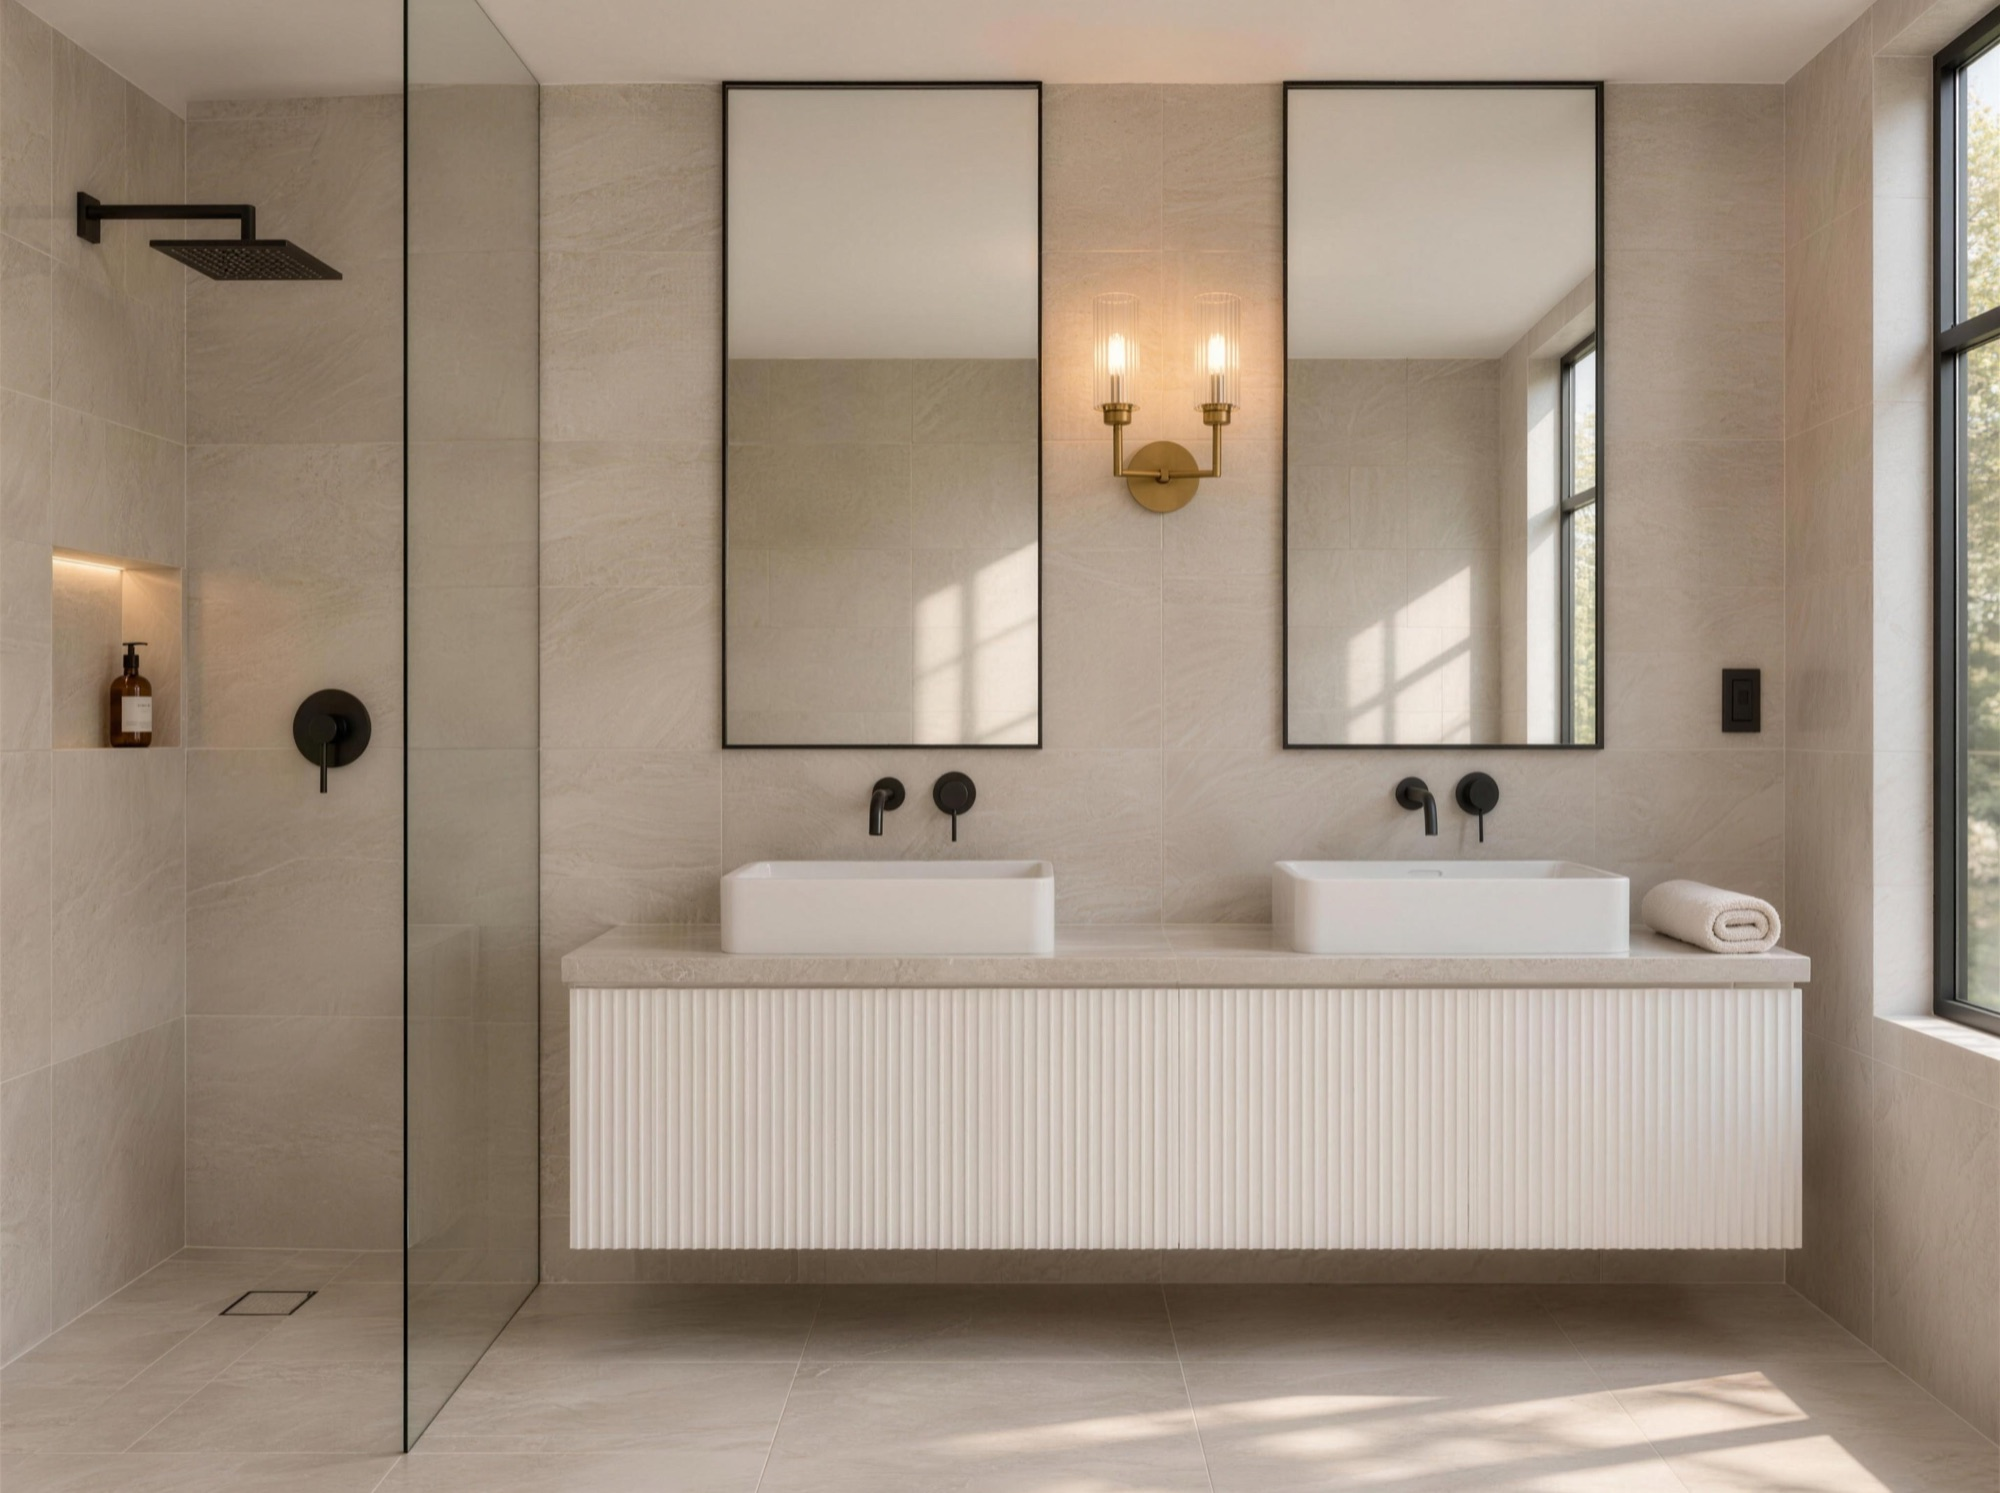
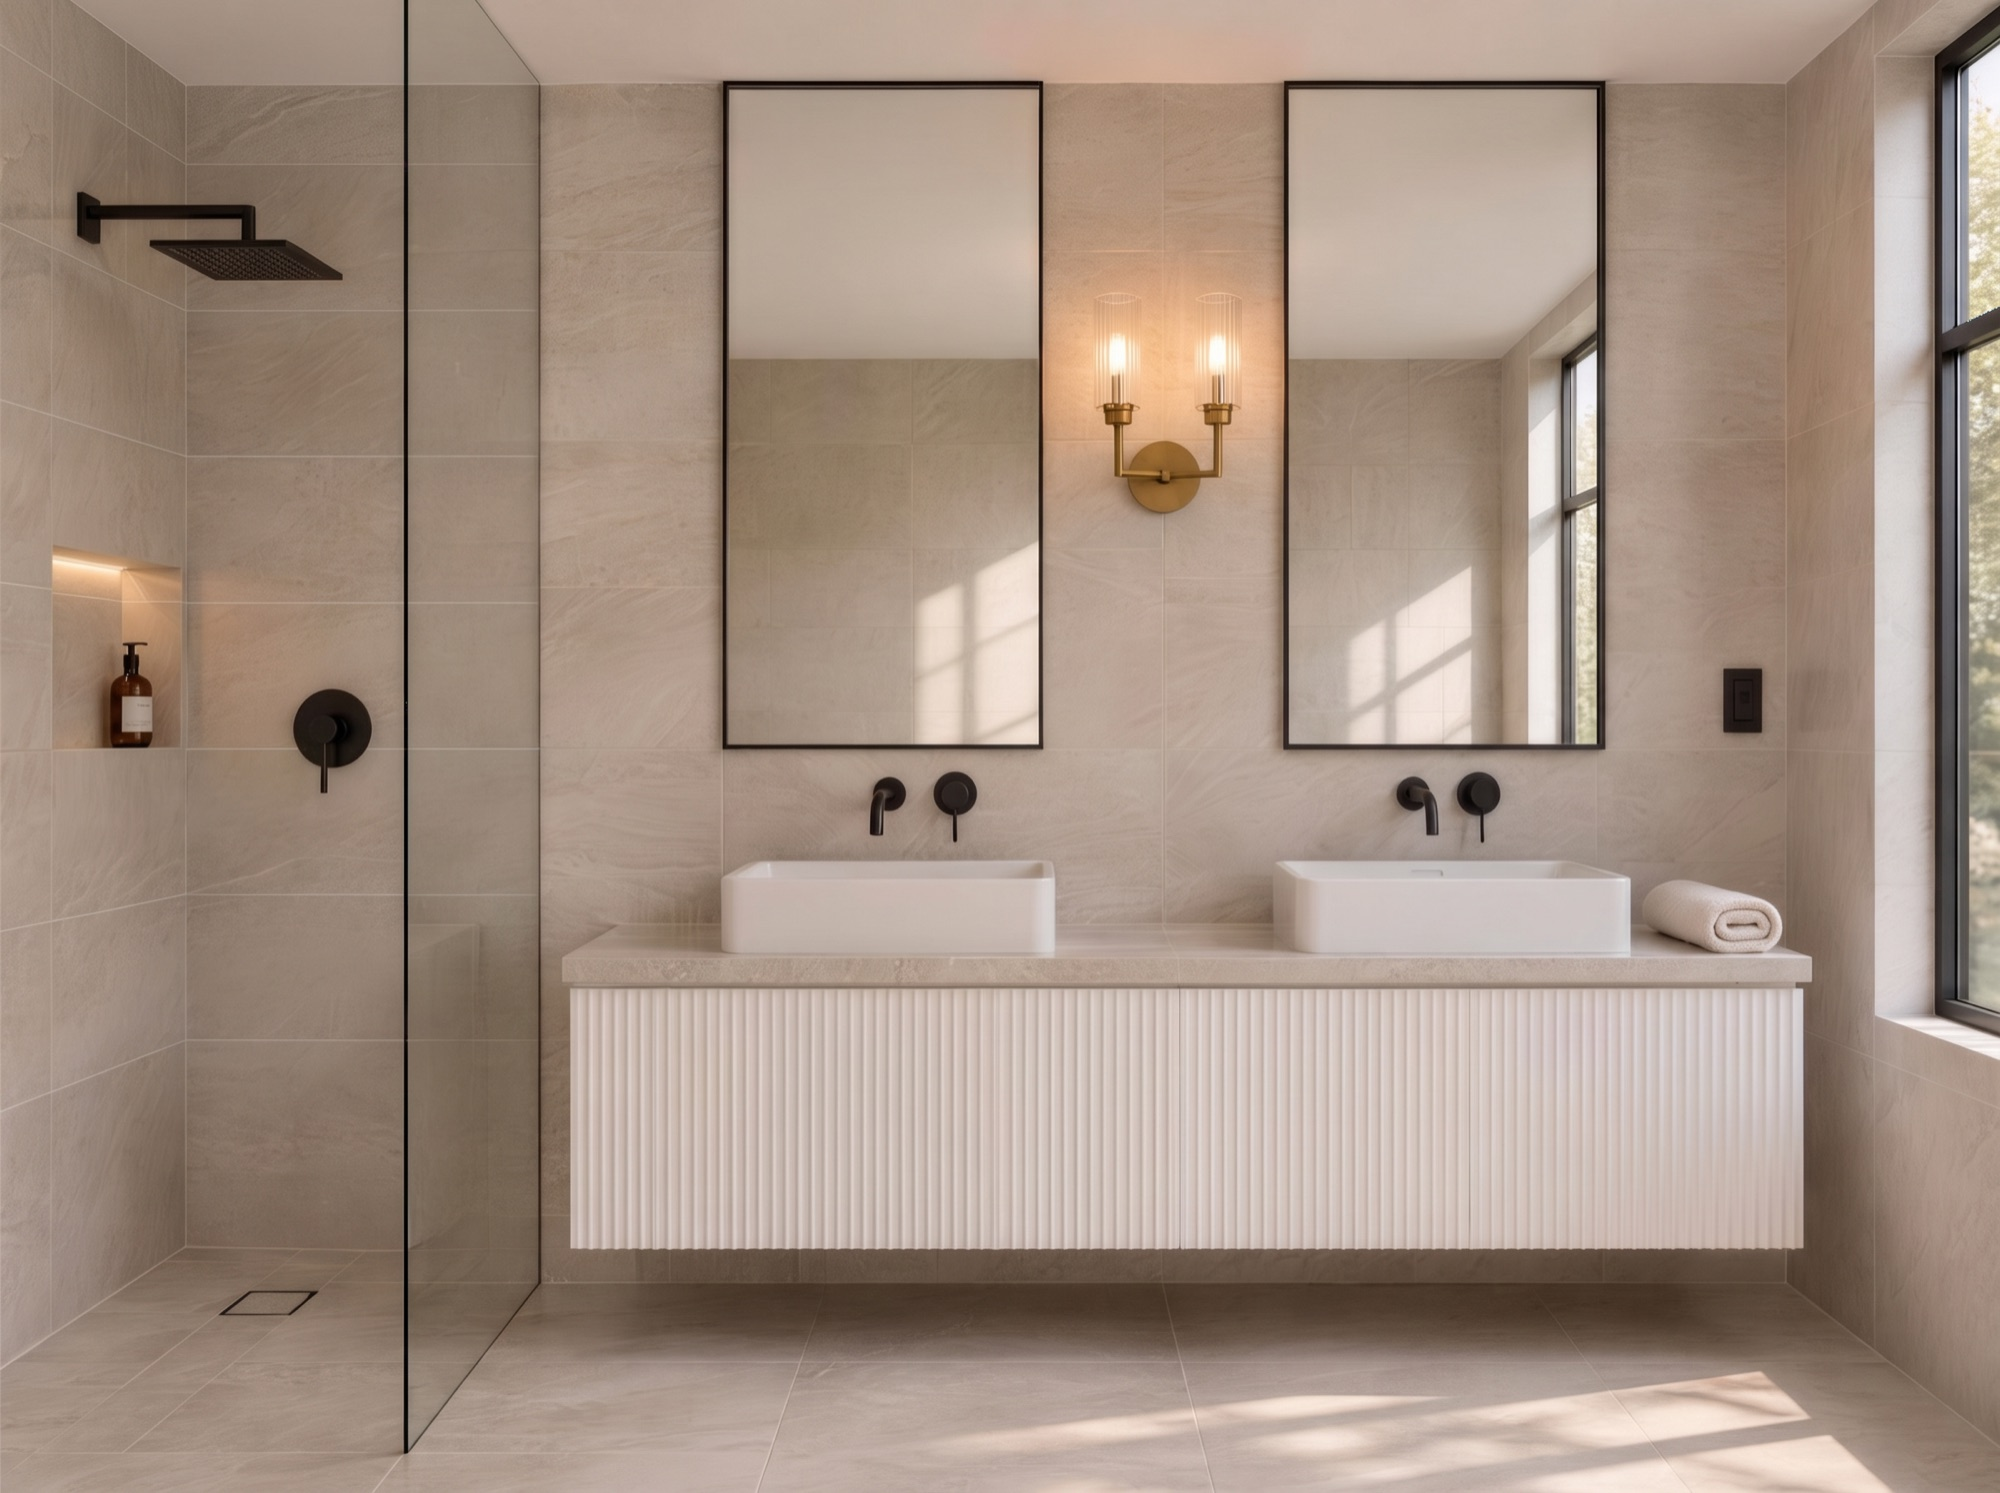
Carousel: stop cropping photos; fix bathroom tile corner
The slides were 16:10 on desktop while every landscape photo is 4:3, so
object-fit: cover silently cut about 19% off the height of each one -
the top of the bathroom mirror among them. Mobile was already 4:3, which
is why it only showed on larger screens. Slide shapes now match the
source photos, so nothing is cropped at any width.

Bathroom photo two also had tile courses that did not line up around the
left-hand corner and a ceiling that changed angle either side of the
glass. Corrected by editing the original rather than regenerating it.

diff --git a/app/globals.css b/app/globals.css
@@ -376,9 +376,11 @@ html { overflow-x: clip; }
 .pcar__track:focus-visible { outline: 2px solid var(--color-text); outline-offset: 3px; }
 .pcar__item { position: relative; overflow: hidden; background: var(--color-surface); scroll-snap-align: start; }
 .pcar__item img { object-fit: cover; }
-.pcar--wide .pcar__item { aspect-ratio: 16 / 10; }
+/* Slide shapes match the source photos (landscape 4:3, portrait 3:4) so
+   object-fit: cover has nothing to crop. A wider slide here silently cut
+   the top and bottom off every landscape photo. */
+.pcar--wide .pcar__item { aspect-ratio: 4 / 3; }
 .pcar--portrait .pcar__item { aspect-ratio: 3 / 4; }
-@media (max-width: 640px) { .pcar--wide .pcar__item { aspect-ratio: 4 / 3; } }
 
 .pcar__nav { position: absolute; top: 50%; transform: translateY(-50%); z-index: 2; width: 44px; height: 44px; display: flex; align-items: center; justify-content: center; cursor: pointer; border: 1px solid rgba(244, 240, 232, 0.5); border-radius: 50%; background: rgba(20, 15, 10, 0.3); -webkit-backdrop-filter: blur(4px); backdrop-filter: blur(4px); color: #F4F0E8; font-size: 15px; line-height: 1; transition: background 0.25s ease, opacity 0.25s ease; }
 .pcar__nav:hover { background: rgba(20, 15, 10, 0.55); }
